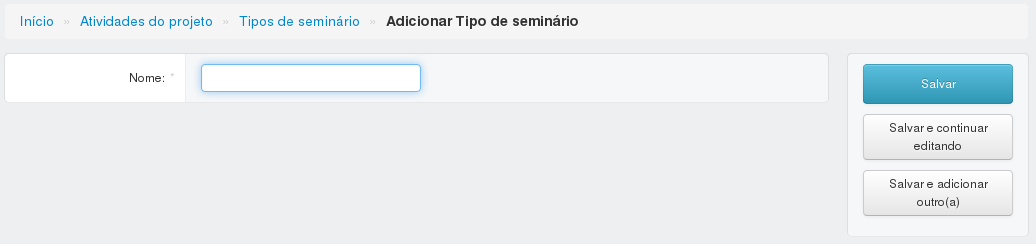
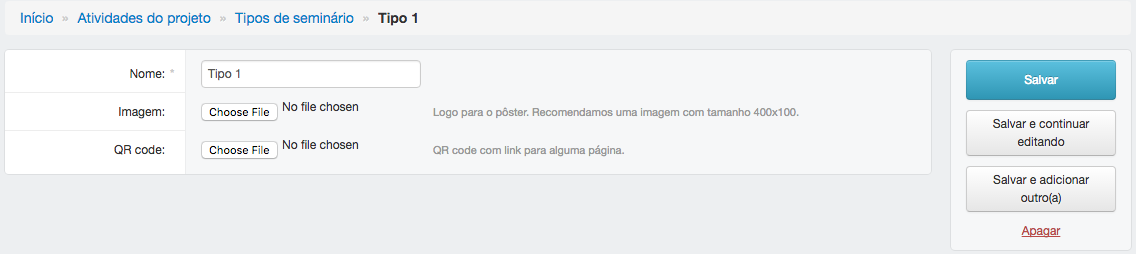
NIRA - Activity migration, alter cepid event

diff --git a/activity/migrations/0005_alter_field_cepid_event.py b/activity/migrations/0005_alter_field_cepid_event.py
@@ -1,0 +1,20 @@
+# -*- coding: utf-8 -*-
+# Generated by Django 1.9.6 on 2016-09-21 21:58
+from __future__ import unicode_literals
+
+from django.db import migrations, models
+
+
+class Migration(migrations.Migration):
+
+    dependencies = [
+        ('activity', '0004_improved_seminar_type'),
+    ]
+
+    operations = [
+        migrations.AlterField(
+            model_name='meeting',
+            name='cepid_event',
+            field=models.BooleanField(default=False, verbose_name='Organized by CEPID?'),
+        ),
+    ]

diff --git a/docs/source/interface/interface.py b/docs/source/interface/interface.py
@@ -2,6 +2,7 @@ SUIT_CONFIG = {
     'MENU_OPEN_FIRST_CHILD': False,
     'HEADER_DATE_FORMAT': 'l, d F Y',
     'MENU': (
+        {'app': 'configuration', 'icon': 'icon-cog'},
         {'app': 'activity', 'icon': 'icon-calendar'},
         {'app': 'dissemination', 'icon': 'icon-facetime-video'},
         {'app': 'person', 'icon': 'icon-user'},

diff --git a/docs/source/instalacao/settings_local.py b/docs/source/instalacao/settings_local.py
@@ -20,8 +20,6 @@ ALLOWED_HOSTS = []
 # Ajuste o caminho para static
 STATIC_ROOT = '/var/lib/sistema-nira/nira/static/'
 
-CEPID_NAME = 'Seu Cepid'
-
 # Aqui você deve colocar as suas configurações de banco de dados
 DATABASES = {
     'default': {

diff --git a/docs/source/documentos/main.rst b/docs/source/documentos/main.rst
@@ -17,10 +17,15 @@ Clique nessa sessão para obter o documento Anexo 5 de uma missão científica p
 
 .. image:: imagens/anexo5.png
 
+:Observação importante:
+    Para gerar este documento, você deve configurar alguma pessoa como pesquisadora principal (ver `Configurações <../configuracao/main.html>`_), o nome dessa pessoa aparece no Anexo 5.
+
+
 :Campos opcionais:
     A data de emissão será a data do dia em que a ação executada caso nada seja preenchido.
 
-    O número do processo será o padrão definido caso o usuário não o altere.
+    O número do processo usado é o padrão do seu sistema (ver `Configurações <../configuracao/main.html>`_), você pode optar por digitar outro número.
+
 
 **********************
 Pôster de um seminário
@@ -30,8 +35,10 @@ Clique nessa sessão para obter um pôster de seminário.
 
 Escolha o palestrante, o seminário desejado e clique em obter pôster.
 
+O pôster terá no canto superior esquerdo a imagem determinada para o tipo do seminário (ver `Tipo de seminário <../atividades_projeto/main.html#tipos-de-seminario>`_).
+
 .. image:: imagens/poster_seminario.png
 
-Exemplo de pôster:
+Exemplo de pôster com uma imagem para o tipo de seminário:
 
 .. image:: imagens/exemplo_poster.jpg

diff --git a/docs/source/configuracao/main.rst b/docs/source/configuracao/main.rst
@@ -1,0 +1,20 @@
+===================
+Configurando o NIRA
+===================
+
+*************
+Nome do CEPID
+*************
+
+Aqui você deve preencher com o nome do seu CEPID. Esse nome pode ser usado em algum relatório.
+
+.. image:: imagens/nome_cepid.png
+
+******************
+Número do processo
+******************
+
+Aqui você precisa colocar o número de processo do seu CEPID. Esse número é o padrão
+que fica definido para a geração do Anexo 5 da FAPESP.
+
+.. image:: imagens/numero_processo.png

diff --git a/docs/source/atividades_projeto/main.rst b/docs/source/atividades_projeto/main.rst
@@ -73,8 +73,14 @@ Adicionar um tipo de seminário
 ------------------------------
 
 Para adicionar um tipo de seminário, preencha o nome e clique em salvar.
+Você pode configurar uma imagem e um QR code para uma categoria, essas imagens são utilizadas na geração
+de pôsteres (ver `Pôster de um seminário <../documentos/main.html#poster-de-um-seminario>`_).
 
 .. image:: imagens/tipo.png
 
 :Campos obrigatórios:
 	Nome
+
+:Campos opcionais:
+
+	Imagem, QR code

diff --git a/docs/source/instalacao/main.rst b/docs/source/instalacao/main.rst
@@ -118,7 +118,7 @@ Você também deve alterar a variável com o nome do seu CEPID.
 
 .. literalinclude:: ./settings_local.py
     :language: python
-    :emphasize-lines: 21, 23, 29-32
+    :emphasize-lines: 21, 24-32
 
 
 7. Configuração do Apache

diff --git a/docs/source/admin.rst b/docs/source/admin.rst
@@ -7,3 +7,4 @@ Para administradores
 
    instalacao/main.rst
    interface/main.rst
+   configuracao/main.rst
